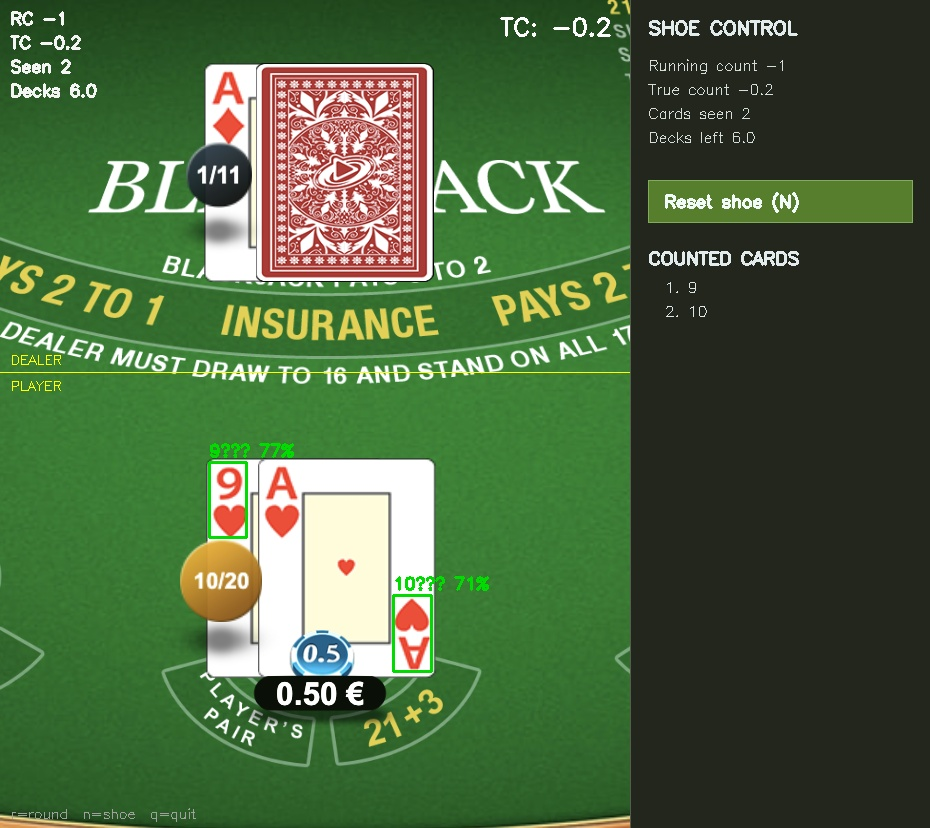
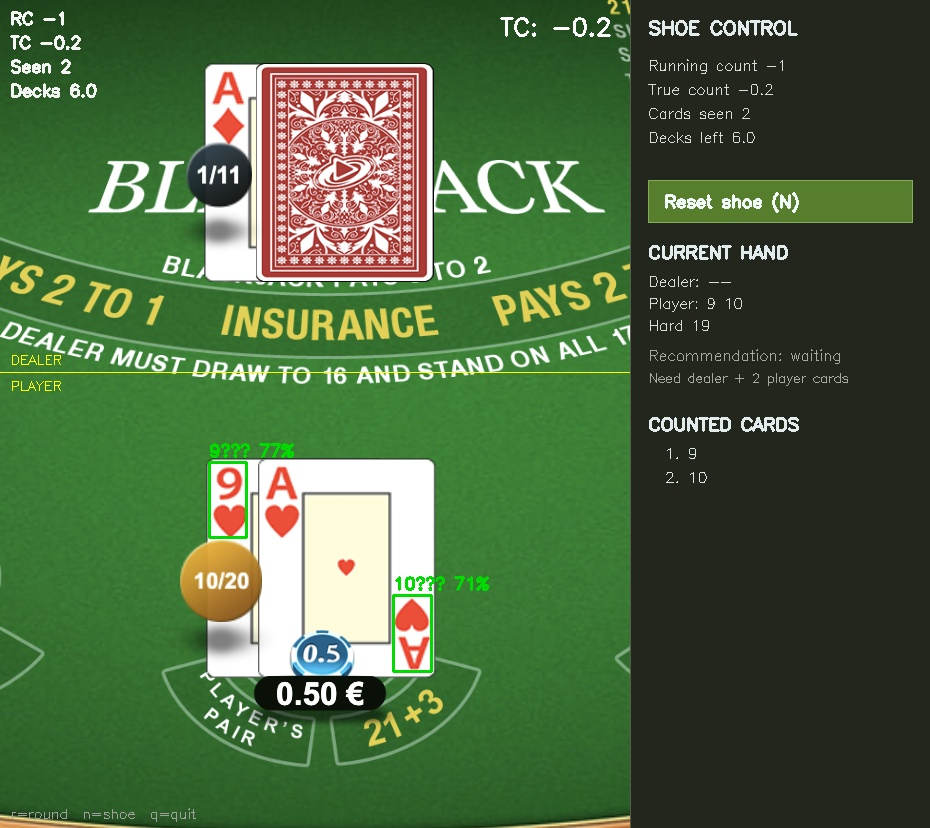
Added recommendation to webcam

diff --git a/src/vision/pipeline.py b/src/vision/pipeline.py
@@ -21,7 +21,7 @@ import cv2
 import numpy as np
 
 from src.decision.engine import BlackjackAdvisor, Recommendation
-from src.decision.hand import Hand
+from src.decision.hand import Card, Hand
 from src.vision.detector import CardDetector, Detection
 from src.vision.state_parser import GameState, StateParser
 
@@ -267,8 +267,8 @@ class Pipeline:
             self.counted_cards.extend(card.rank for card in state.new_cards)
             self.counted_cards = self.counted_cards[-COUNTED_HISTORY_LIMIT:]
 
-        rec = self._last_recommendation
-        if self.parser.dealer_upcard and state.player_cards:
+        rec: Recommendation | None = None
+        if self.parser.dealer_upcard and len(state.player_cards) >= 2:
             hand = Hand(state.player_cards)
             first_action = len(state.player_cards) == 2
             rec = self.advisor.recommend(
@@ -314,7 +314,7 @@ class Pipeline:
         self._draw_count_status(frame, count_status)
         cv2.putText(frame, 'r=round  n=shoe  q=quit',
                     (10, h - 10), cv2.FONT_HERSHEY_SIMPLEX, 0.45, (160, 160, 160), 1)
-        return self._draw_side_panel(frame, count_status)
+        return self._draw_side_panel(frame, state, rec, count_status)
 
     def _draw_zone_line(self, frame: np.ndarray, w: int, y: int) -> None:
         cv2.line(frame, (0, y), (w, y), (0, 255, 255), 1)
@@ -364,7 +364,13 @@ class Pipeline:
                         cv2.FONT_HERSHEY_SIMPLEX, 0.55, (245, 245, 245), 2)
             y += 24
 
-    def _draw_side_panel(self, frame: np.ndarray, count_status: dict) -> np.ndarray:
+    def _draw_side_panel(
+        self,
+        frame: np.ndarray,
+        state: GameState,
+        rec: Recommendation | None,
+        count_status: dict,
+    ) -> np.ndarray:
         h, w = frame.shape[:2]
         panel_x = w
         canvas = np.full((h, w + SIDE_PANEL_WIDTH, 3), (18, 27, 24), dtype=frame.dtype)
@@ -399,7 +405,10 @@ class Pipeline:
                     cv2.FONT_HERSHEY_SIMPLEX, 0.56, (250, 250, 242), 2)
         self._reset_button_rect = (button_x1, button_y1, button_x2, button_y2)
 
-        y = button_y2 + 42
+        y = button_y2 + 36
+        y = self._draw_current_hand_panel(canvas, x, y, state, rec)
+
+        y += 26
         cv2.putText(canvas, 'COUNTED CARDS', (x, y),
                     cv2.FONT_HERSHEY_SIMPLEX, 0.58, (236, 236, 226), 2)
         y += 28
@@ -420,6 +429,72 @@ class Pipeline:
                 break
 
         return canvas
+
+    def _draw_current_hand_panel(
+        self,
+        canvas: np.ndarray,
+        x: int,
+        y: int,
+        state: GameState,
+        rec: Recommendation | None,
+    ) -> int:
+        cv2.putText(canvas, 'CURRENT HAND', (x, y),
+                    cv2.FONT_HERSHEY_SIMPLEX, 0.58, (236, 236, 226), 2)
+        y += 28
+
+        dealer = self._format_cards(state.dealer_cards)
+        player = self._format_cards(state.player_cards)
+        hand_label = self._hand_label(state.player_cards)
+
+        lines = [
+            f"Dealer: {dealer or '--'}",
+            f"Player: {player or '--'}",
+        ]
+        if hand_label:
+            lines.append(hand_label)
+
+        for line in lines:
+            cv2.putText(canvas, line, (x, y),
+                        cv2.FONT_HERSHEY_SIMPLEX, 0.48, (218, 222, 214), 1)
+            y += 22
+
+        y += 8
+        if rec is None:
+            cv2.putText(canvas, 'Recommendation: waiting', (x, y),
+                        cv2.FONT_HERSHEY_SIMPLEX, 0.48, (160, 170, 164), 1)
+            y += 22
+            cv2.putText(canvas, 'Need dealer + 2 player cards', (x, y),
+                        cv2.FONT_HERSHEY_SIMPLEX, 0.42, (160, 170, 164), 1)
+            return y + 22
+
+        color = _ACTION_COLORS.get(rec.action, (255, 255, 255))
+        cv2.putText(canvas, 'Recommendation', (x, y),
+                    cv2.FONT_HERSHEY_SIMPLEX, 0.48, (218, 222, 214), 1)
+        y += 34
+        cv2.putText(canvas, rec.action, (x, y),
+                    cv2.FONT_HERSHEY_SIMPLEX, 1.0, color, 2)
+        y += 28
+        cv2.putText(canvas, f"Bet {rec.bet_units}u  TC {rec.true_count:+.1f}", (x, y),
+                    cv2.FONT_HERSHEY_SIMPLEX, 0.46, (218, 222, 214), 1)
+        if rec.is_deviation:
+            y += 22
+            cv2.putText(canvas, 'Index deviation', (x, y),
+                        cv2.FONT_HERSHEY_SIMPLEX, 0.46, (0, 220, 255), 1)
+        return y
+
+    def _format_cards(self, cards: list[Card]) -> str:
+        return ' '.join(card.rank for card in cards)
+
+    def _hand_label(self, cards: list[Card]) -> str:
+        if not cards:
+            return ''
+        hand = Hand(cards)
+        if hand.is_blackjack:
+            return 'Blackjack'
+        if hand.is_bust:
+            return f"Bust {hand.total}"
+        hand_type = 'Soft' if hand.is_soft else 'Hard'
+        return f"{hand_type} {hand.total}"
 
 
 def main() -> None:

diff --git a/tests/test_vision.py b/tests/test_vision.py
@@ -228,6 +228,35 @@ def test_pipeline_process_frame_feeds_confirmed_cards_to_counter():
     assert pipeline.advisor.counter.cards_seen == 0
 
 
+def test_pipeline_requires_two_player_cards_for_recommendation():
+    class FakeDetector:
+        def detect(self, frame):
+            return [
+                det('A', 100, 50, 170, 130),
+                det('10', 220, 400, 290, 480),
+            ]
+
+    pipeline = Pipeline.__new__(Pipeline)
+    pipeline.camera_index = 0
+    pipeline.detector = FakeDetector()
+    pipeline.advisor = BlackjackAdvisor(num_decks=6)
+    pipeline.parser = None
+    pipeline.confirmation_frames = 1
+    pipeline.empty_reset_frames = 8
+    pipeline._last_recommendation = None
+    pipeline.counted_cards = []
+    pipeline._reset_button_rect = None
+
+    import numpy as np
+
+    frame = np.zeros((720, 1280, 3), dtype=np.uint8)
+    result = pipeline.process_frame(frame)
+
+    assert result.recommendation is None
+    assert result.state.dealer_cards == [Card('A', 's')]
+    assert result.state.player_cards == [Card('10', 's')]
+
+
 def test_pipeline_process_image_file_writes_annotated_summary(tmp_path):
     class FakeDetector:
         def detect(self, frame):
